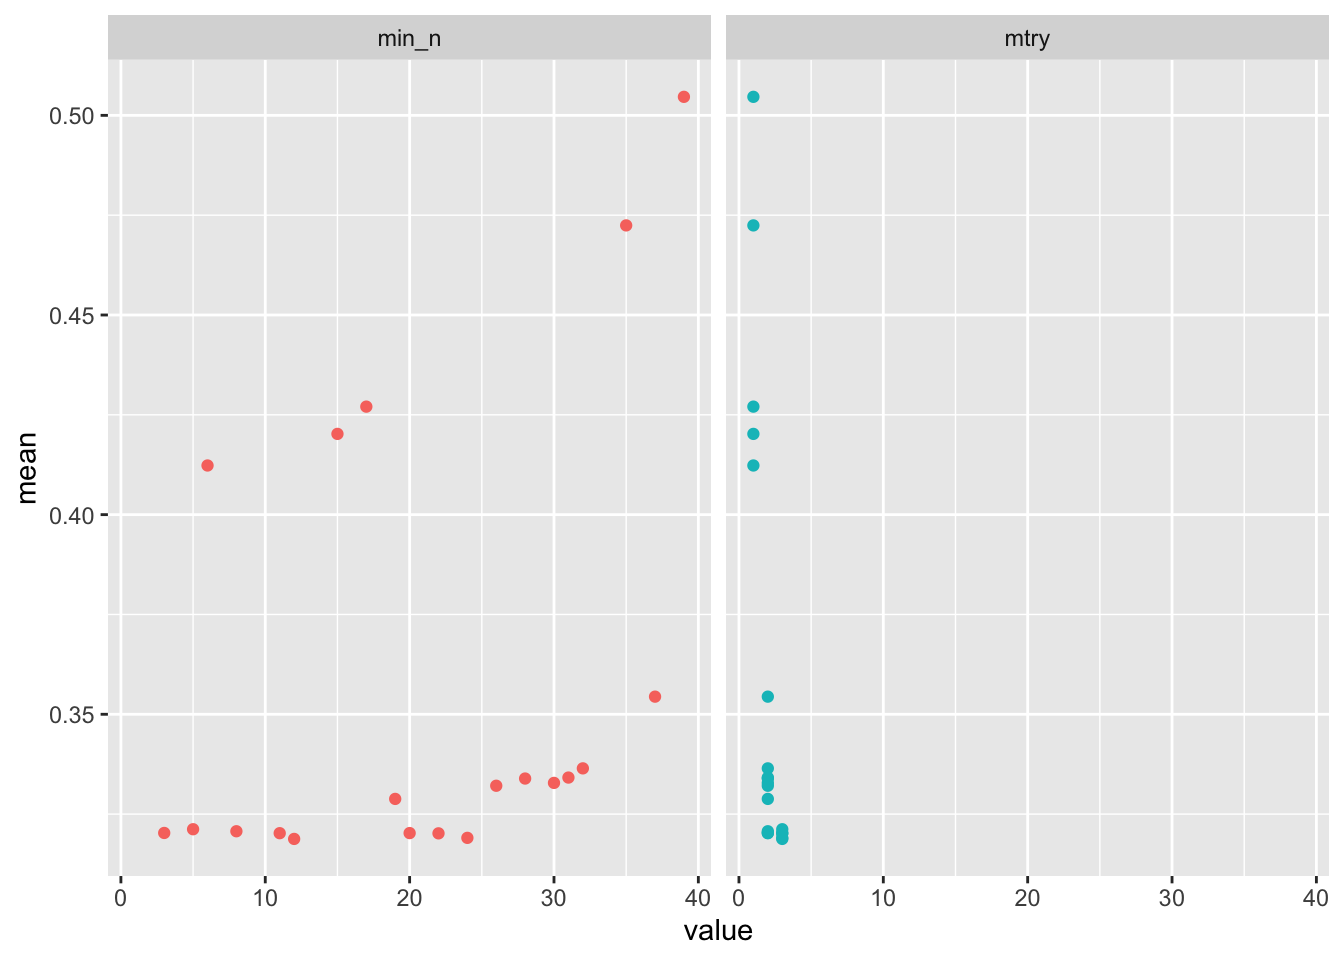
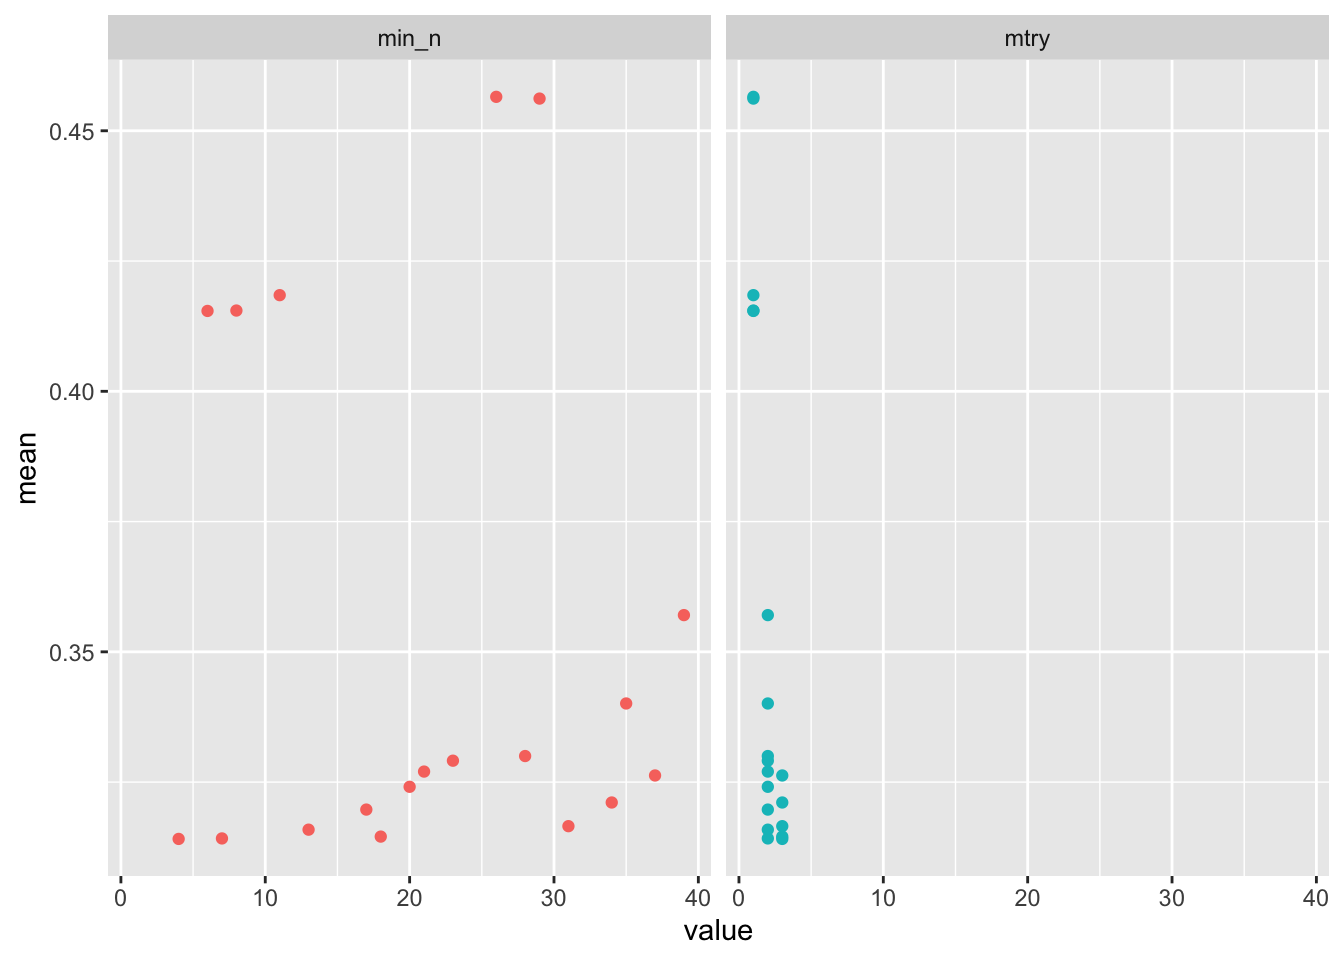
Add files via upload

diff --git a/public/post/2020/08/20/random-forest-a-machine-learning-algorithm-for-weed-research/index.html b/public/post/2020/08/20/random-forest-a-machine-learning-algorithm-for-weed-research/index.html
@@ -139,7 +139,7 @@ data &lt;- read_csv(df_path) %&gt;%
 ##  9  4.93 4x    no    yes       
 ## 10  4.93 4x    no    yes       
 ## # … with 110 more rows</code></pre>
-<p>The dataset contains solution pH levels for treatments that were a combination of 3 factors: 2 rates (1x and 4x), did/did not include glyphosate, did/did not include a pH buffer.</p>
+<p>The dataset contains solution pH levels for treatments that were a combination of 3 factors: 2 rates (1x and 4x), did/did not include glyphosate, did/did not include AMS.</p>
 <p>First, we must split the data into training and testing datasets. We will use the training set to build and tune the model; we will use the testing set at the very end to evaluate the performance of the model. When splitting the dataset, specify the response variable for the strata (“ph”).</p>
 <pre class="r"><code>set.seed(123)
 s1_split &lt;- initial_split(data, strata = ph)
@@ -152,7 +152,8 @@ s1_test &lt;- testing(s1_split)</code></pre>
 <p>In the recipe below, we are specifying that “ph” is our response variable, and we are including all other columns in the dataset as explanatory variables. In random forest you can also manipulate your dataset by making <a href="https://en.wikipedia.org/wiki/Dummy_variable_(statistics)">dummy variables</a>.</p>
 <p>In tidymodels, there are three hyperparameters for Random Forests: mtry, the number of different predictors sampled at each split; trees, the number of decision trees; and min_n, the minimum number of data points in a node required for further splits. If you are not familiar with these, look at rand_forest in Help tab for clarification on what the parameters represent. Often these parameters are arbitrarily assigned. For example, we are going to set the number of trees to 1000 (trees=1000), because for our purposes it is only important to have “enough.” In the example below, we are specifying that we would like to tune our model for the optimal values of mtry and min_n. </p>
 <p>When building your model, there are several options to list for set_mode, depending on your data’s response variable. For this example, our response variable specified is quantitative; thus, we specified the mode as “regression.” “Classification” is a frequently used alternative for qualitative response variables. You can also change the engine specified (in this example we used “ranger”).</p>
-<pre class="r"><code>#Build recipe
+<pre class="r"><code>set.seed(123)
+#Build recipe
 s1_rec &lt;- recipe(ph ~ ., data=s1_train)
 
 #Build model
@@ -165,23 +166,25 @@ tune_wf &lt;- workflow() %&gt;%
   add_recipe(s1_rec) %&gt;% 
   add_model(tune_spec) </code></pre>
 <p>Now that we have set up our workflow, we are almost ready to tune our hyperparameters. Below we use the vfold_cv function to allow our training dataset to randomly permute the explantory variables. We also use a parallel processor to tune faster. This is perhaps more important for very large datasets. We specified grid=20 when tuning so it would test 20 combinations of mtry and min_n. The larger the grid value, the longer this code will take to run.</p>
-<pre class="r"><code>set.seed(234)
+<pre class="r"><code>set.seed(123)
 s1_folds &lt;- vfold_cv(s1_train)
 
 doParallel::registerDoParallel() 
-set.seed(345)
+
 tune_res &lt;- tune_grid(tune_wf, resamples=s1_folds, grid=20) </code></pre>
 <pre><code>## i Creating pre-processing data to finalize unknown parameter: mtry</code></pre>
 <p>Once the previous chunk has finished running, we can view the results a few different ways.</p>
 <p>First, we use the select_best function to select for the optimal values of mtry and min_n given based off our specified criterion, Root Mean Squared Error (RMSE), for the model based on this initial tune. You can change what criterion to select by based on the type of random forest or your personal preference (i.e. I also could have chosen R<sup>2</sup>). RMSE is estimated as the square root of the average difference between the observed and the predicted value squared for all observations (Zhou et al. 2019). Lower RMSE scores indicate better model performance (Zhou et al. 2019). Alternatively, we could have used collect_metrics() to view the results for the entire sampling grid.</p>
 <p>Second, we use the next several lines to contstruct a plot to visualize what range of values of mtry and min_n are better for our selection criterion specified. BY looking at this plot, we can decide on a range of values to use for mtry and min_n to better tune the model. Think: is my model better if I have larger or smaller values of mtry?</p>
-<pre class="r"><code>tune_res %&gt;%
+<pre class="r"><code>set.seed(123)
+tune_res %&gt;%
   select_best(&quot;rmse&quot;) </code></pre>
 <pre><code>## # A tibble: 1 x 3
 ##    mtry min_n .config
 ##   &lt;int&gt; &lt;int&gt; &lt;chr&gt;  
-## 1     3    12 Model20</code></pre>
-<pre class="r"><code>tune_res %&gt;%
+## 1     3     4 Model11</code></pre>
+<pre class="r"><code>set.seed(123)
+tune_res %&gt;%
   collect_metrics() %&gt;% 
   filter(.metric ==&quot;rmse&quot;) %&gt;% 
   pivot_longer(min_n:mtry, values_to=&quot;value&quot;, names_to=&quot;parameter&quot;) %&gt;% 
@@ -189,10 +192,11 @@ tune_res &lt;- tune_grid(tune_wf, resamples=s1_folds, grid=20) </code></pre>
   geom_point(show.legend=FALSE) +
   facet_wrap(~ parameter)</code></pre>
 <p><img src="/post/random_forest_2020_files/figure-html/unnamed-chunk-7-1.png" width="672" /></p>
-<p>The select_best function tells us that mtry=3 and min_n=5 provide the lowest values of RMSE. Our plot suggests lower values of min_n and mtry are better. We will be using this information to better tune our model by building a new sampling grid based off of what range of values we would like to test for the two parameters. The smaller the range we specify, the more precise we can be with specifying the optimal value for the parameters. Below, we specify we would like to test mtry values from 2-5 and min_n values from 0-5.We also choose to list levels=5. This can be adjusted similarly to as above when we specified grid=20. The larger the value listed for levels, more combinations tested and the longer the code will take to run.</p>
-<pre class="r"><code>rf_grid &lt;- grid_regular(mtry(range=c(2,5)), min_n(range=c(0,5)), levels=5)  
+<p>The select_best function tells us that mtry=3 and min_n=4 provide the lowest values of RMSE. Our plot suggests lower values of min_n and mtry are better. We will be using this information to better tune our model by building a new sampling grid based off of what range of values we would like to test for the two parameters. The smaller the range we specify, the more precise we can be with specifying the optimal value for the parameters. Below, we specify we would like to test mtry values from 1-5 and min_n values from 15-30. We also choose to list levels=5. This can be adjusted similarly to as above when we specified grid=20. The larger the value listed for levels, more combinations tested and the longer the code will take to run.</p>
+<pre class="r"><code>set.seed(123)
+rf_grid &lt;- grid_regular(mtry(range=c(1,5)), min_n(range=c(20,30)), levels=5)  
 
-set.seed(456)
+set.seed(123)
 regular_res &lt;- tune_grid(tune_wf, resamples=s1_folds, grid=rf_grid) 
 
 regular_res %&gt;%
@@ -200,7 +204,7 @@ regular_res %&gt;%
 <pre><code>## # A tibble: 1 x 3
 ##    mtry min_n .config
 ##   &lt;int&gt; &lt;int&gt; &lt;chr&gt;  
-## 1     2     0 Model01</code></pre>
+## 1     3    27 Model18</code></pre>
 <pre class="r"><code>regular_res %&gt;%
   collect_metrics() %&gt;%
   filter(.metric ==&quot;rmse&quot;) %&gt;% 
@@ -209,7 +213,7 @@ regular_res %&gt;%
   geom_line(alpha=0.5, size=1.5) +
   geom_point()</code></pre>
 <p><img src="/post/random_forest_2020_files/figure-html/Second%20model%20tune-1.png" width="672" /></p>
-<p>Similar to as we had above, we can use select_best function and the plot we construct to determine the best values of mtry and min_n for our model. Select_best tells us that mtry=3 and min_n=1 are optimal.</p>
+<p>Similar to as we had above, we can use select_best function and the plot we construct to determine the best values of mtry and min_n for our model. Select_best tells us that mtry=3 and min_n=27 are optimal.</p>
 <p>This time, the plot we construct shows RMSE on the y-axis, values of mtry on the x-axis, and min_n values tested are shown in different colored lines to display the combinations of mtry and min_n parameters and their relationship with RMSE criterion. From this plot, it is clear to see the levels of parameters specified when we ran the select_best function for this tuning do provide the lowest RMSE.</p>
 </div>
 <div id="finalize-the-model" class="section level2">
@@ -217,8 +221,9 @@ regular_res %&gt;%
 <p>Below we select our model based on our specified criterion, RMSE, and final our model by editing the intial model we had built, tune_spec. Now we have our final model, final_rf.</p>
 <p>We chose to utilize the “impurity” measure of importance, but there are several different measures you could list instead. Consult the “ranger” package or the package for the engine selected (if changing) to determine the correct measure to list for your dataset. Variable importance scores provide an estimate of the change in prediction accuracy should the variable be excluded from the model (Wright 2020). Higher VI values indicate the variable is important in the model and in explaining variability of the response variable, while values near zero indicate the variable is not important (Bourgoin et al. 2018; Louppe et al. 2013).</p>
 <p>Below we describe three ways to obtain/visualize the variable importance values. First, we can extract the importance values estimated by the model using the vi() function (shown hashtagged). Next, we create a dot plot - this is perhaps the most common display of importance in the literature. Finally, we create a bar plot displaying the same information in the dot plot.</p>
-<pre class="r"><code>best_rmse &lt;- select_best(regular_res, &quot;rmse&quot;)
+<pre class="r"><code>set.seed(123)
 
+best_rmse &lt;- select_best(regular_res, &quot;rmse&quot;)
 final_rf &lt;- finalize_model(tune_spec, best_rmse)
 
 final_rf %&gt;%
@@ -276,8 +281,8 @@ final_res %&gt;%
 <pre><code>## # A tibble: 2 x 3
 ##   .metric .estimator .estimate
 ##   &lt;chr&gt;   &lt;chr&gt;          &lt;dbl&gt;
-## 1 rmse    standard       0.335
-## 2 rsq     standard       0.823</code></pre>
+## 1 rmse    standard       0.322
+## 2 rsq     standard       0.838</code></pre>
 <pre class="r"><code>final_res %&gt;%
   collect_predictions() %&gt;% 
   bind_cols(s1_test)</code></pre>
@@ -287,16 +292,16 @@ final_res %&gt;%
 <pre><code>## # A tibble: 28 x 8
 ##    id               .pred  .row ph...4 ph...5 Rate  AMS   Glyphosate
 ##    &lt;chr&gt;            &lt;dbl&gt; &lt;int&gt;  &lt;dbl&gt;  &lt;dbl&gt; &lt;fct&gt; &lt;fct&gt; &lt;fct&gt;     
-##  1 train/test split  6.51     3   6.56   6.56 4x    no    no        
-##  2 train/test split  5.20     9   4.93   4.93 4x    no    yes       
-##  3 train/test split  5.20    16   4.96   4.96 4x    no    yes       
-##  4 train/test split  6.51    23   6.5    6.5  4x    no    no        
-##  5 train/test split  6.51    24   6.53   6.53 4x    no    no        
-##  6 train/test split  6.36    25   6.73   6.73 4x    yes   no        
-##  7 train/test split  6.36    28   6.8    6.8  4x    yes   no        
-##  8 train/test split  6.36    30   6.77   6.77 4x    yes   no        
-##  9 train/test split  5.29    32   5.03   5.03 4x    yes   yes       
-## 10 train/test split  5.29    37   5.04   5.04 4x    yes   yes       
+##  1 train/test split  6.45     3   6.56   6.56 4x    no    no        
+##  2 train/test split  5.19     9   4.93   4.93 4x    no    yes       
+##  3 train/test split  5.19    16   4.96   4.96 4x    no    yes       
+##  4 train/test split  6.45    23   6.5    6.5  4x    no    no        
+##  5 train/test split  6.45    24   6.53   6.53 4x    no    no        
+##  6 train/test split  6.45    25   6.73   6.73 4x    yes   no        
+##  7 train/test split  6.45    28   6.8    6.8  4x    yes   no        
+##  8 train/test split  6.45    30   6.77   6.77 4x    yes   no        
+##  9 train/test split  5.26    32   5.03   5.03 4x    yes   yes       
+## 10 train/test split  5.26    37   5.04   5.04 4x    yes   yes       
 ## # … with 18 more rows</code></pre>
 </div>
 <div id="references" class="section level2">
